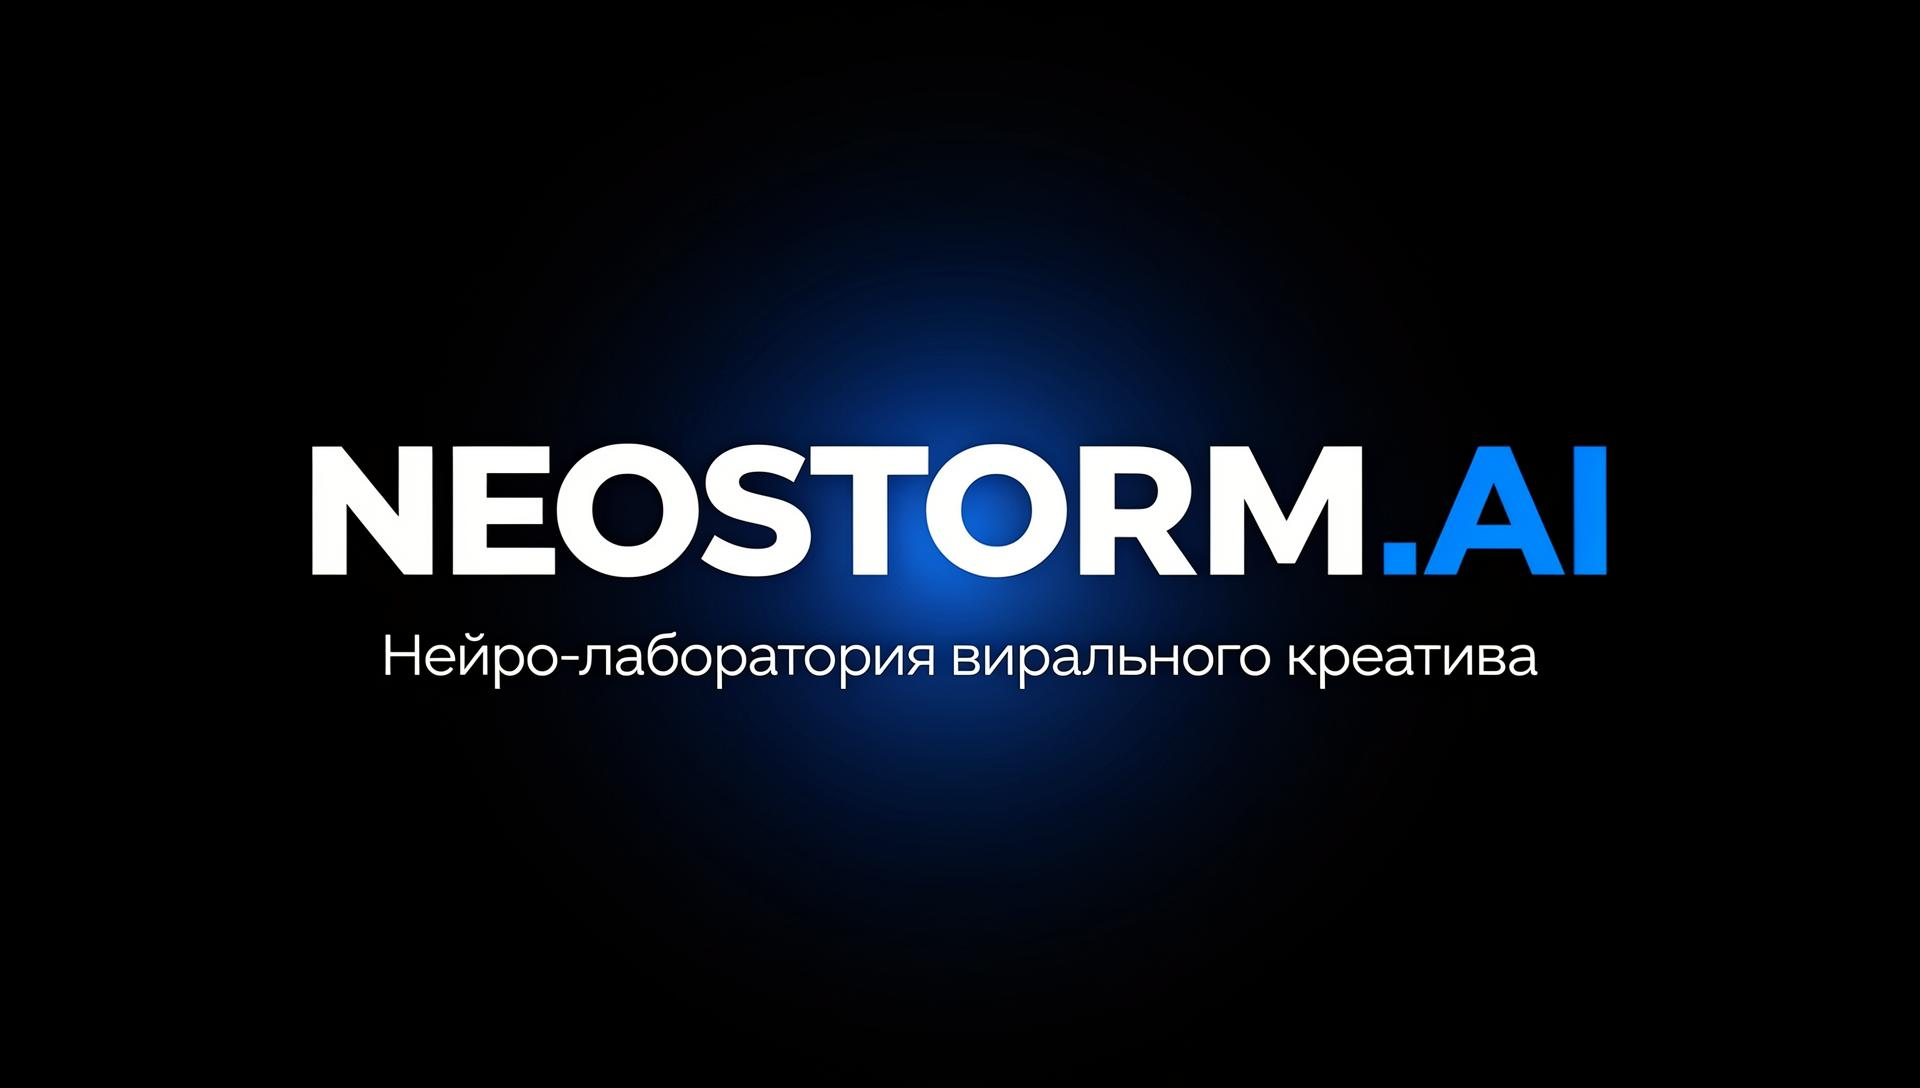
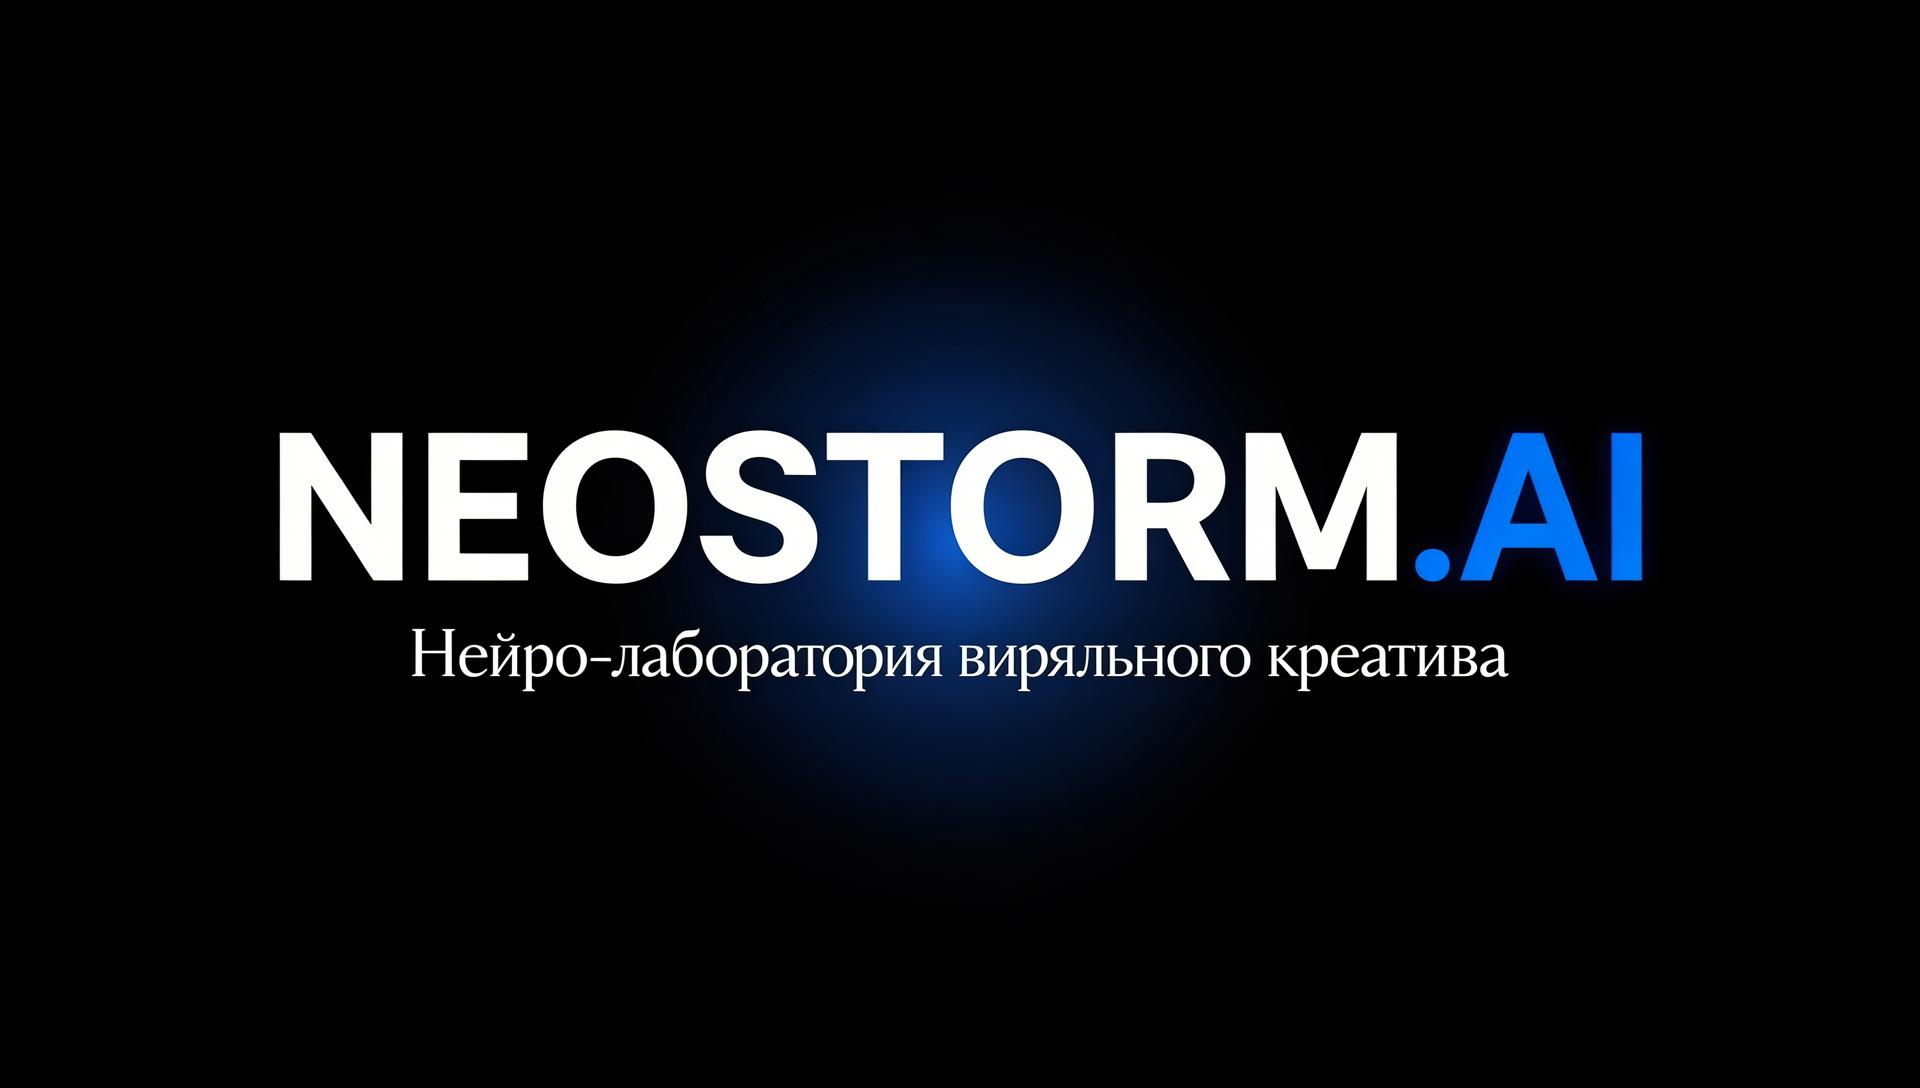
Changes

Changed region(s): [[0.125, 0.1875, 0.875, 0.6875], [0.4062, 0.7188, 0.5625, 0.8125]]

diff --git a/src/components/Hero.tsx b/src/components/Hero.tsx
@@ -1,5 +1,4 @@
 import { motion } from "framer-motion";
-import { Play } from "lucide-react";
 
 const Hero = () => {
   return (
@@ -7,13 +6,13 @@ const Hero = () => {
       {/* Subtle gradient orb */}
       <div className="absolute top-1/2 left-1/2 -translate-x-1/2 -translate-y-1/2 w-[600px] h-[600px] rounded-full bg-electric/5 blur-[120px] pointer-events-none" />
       
-      <div className="container relative z-10 text-center px-4">
+      <div className="container relative z-10 text-center px-6 sm:px-8">
         <motion.div
           initial={{ opacity: 0, y: 40 }}
           animate={{ opacity: 1, y: 0 }}
           transition={{ duration: 0.8, ease: [0.25, 0.46, 0.45, 0.94] }}
         >
-          <h1 className="text-6xl sm:text-8xl md:text-[10rem] lg:text-[13rem] font-black tracking-tighter leading-[0.85] mb-8">
+          <h1 className="font-black tracking-tighter leading-[0.85] mb-8" style={{ fontSize: 'clamp(3rem, 15vw, 12rem)' }}>
             NEOSTORM<span className="text-gradient-electric glow-text-electric">.AI</span>
           </h1>
         </motion.div>
@@ -38,12 +37,10 @@ const Hero = () => {
               e.preventDefault();
               const lb = document.getElementById("portfolio");
               lb?.scrollIntoView({ behavior: "smooth" });
-              window.dispatchEvent(new CustomEvent("open-showreel"));
             }}
             className="inline-flex items-center gap-3 px-8 py-4 rounded-full border border-primary/30 text-primary hover:bg-primary hover:text-primary-foreground transition-all duration-500 group glow-electric"
           >
-            <Play className="w-4 h-4 group-hover:scale-110 transition-transform" />
-            <span className="text-sm font-medium tracking-widest uppercase">Watch Reel</span>
+            <span className="text-sm font-medium tracking-widest uppercase">Explore Portfolio</span>
           </a>
         </motion.div>
       </div>
